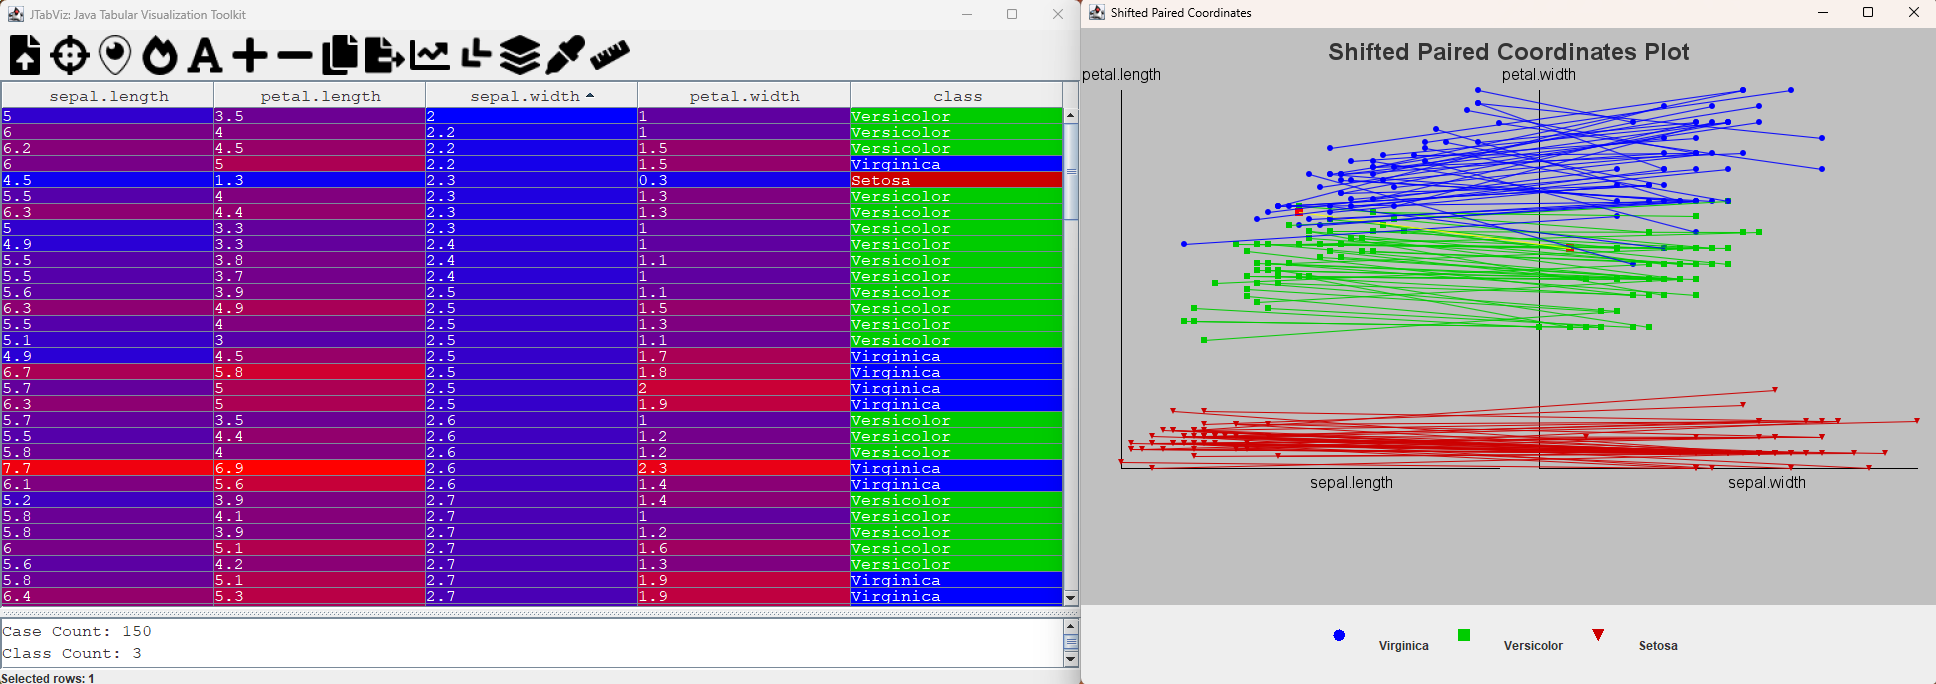
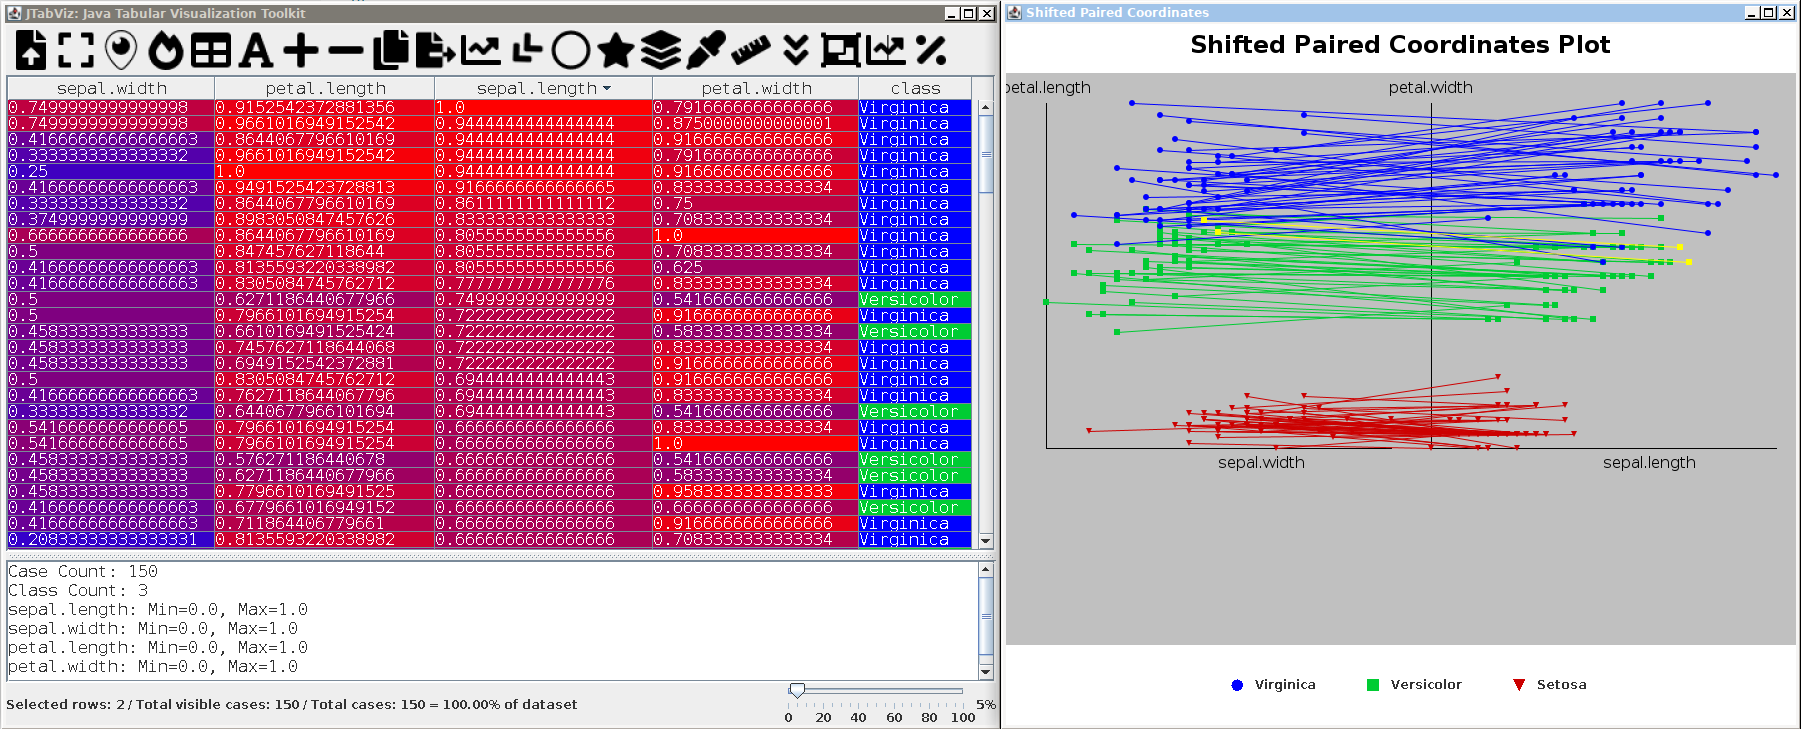
Update screenshot demo2

diff --git a/README.md b/README.md
@@ -8,10 +8,10 @@ Visualizing the MNIST letters train data in Shifted Paired Coordinates.
 Visualizing the Wisconsin Breast Cancer 30 feature data in Star Coordinates.
 ![Star demo screenshot](screenshots/WBC_30_Demo_1.png)
 
-Exploring Fisher Iris data highlighting sepal width outliers for Virginica class by rearranging axes to accentuate monotonic patterns, sorting by the desired attribute, and ctrl-clicking outlier cases to then visualize as shown here in Parallel coordinates.
+Exploring Fisher Iris data by highlighting sepal width outliers for Virginica class by rearranging axes to accentuate monotonic patterns, sorting by the desired attribute, and ctrl-clicking outlier cases to then visualize as shown here in Parallel Coordinates.
 ![Demo screenshot 1](screenshots/Iris_Demo_1.png)
 
-Shifted Paired Coordinates highlighting a potential misclassification in the Virginica class based on sepal width.
+Exploring Fisher Iris data by highlighting sepal length outliers for the Versicolor class which remain difficult to classify in Shifted Paired Coordinates.
 ![Demo screenshot 2](screenshots/Iris_Demo_2.png)
 
 Static Circular Coordinates Demo highlighting a petal length outlier in the Virginica class.
